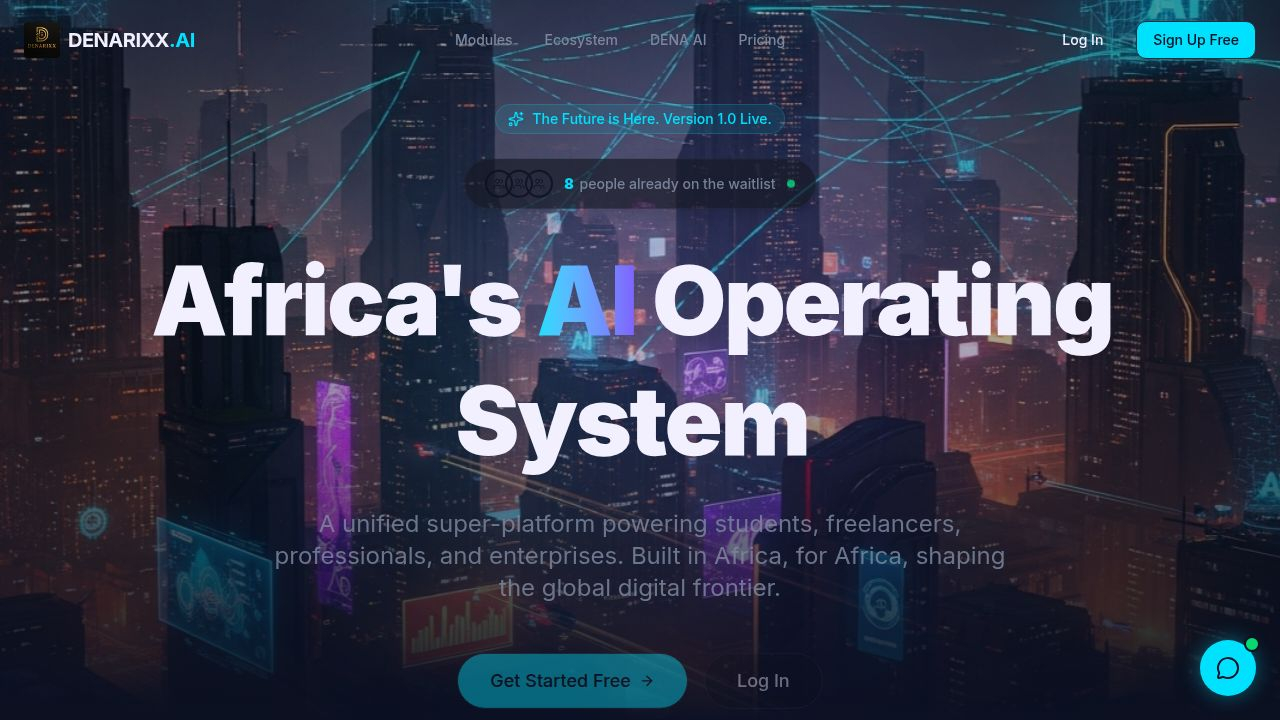
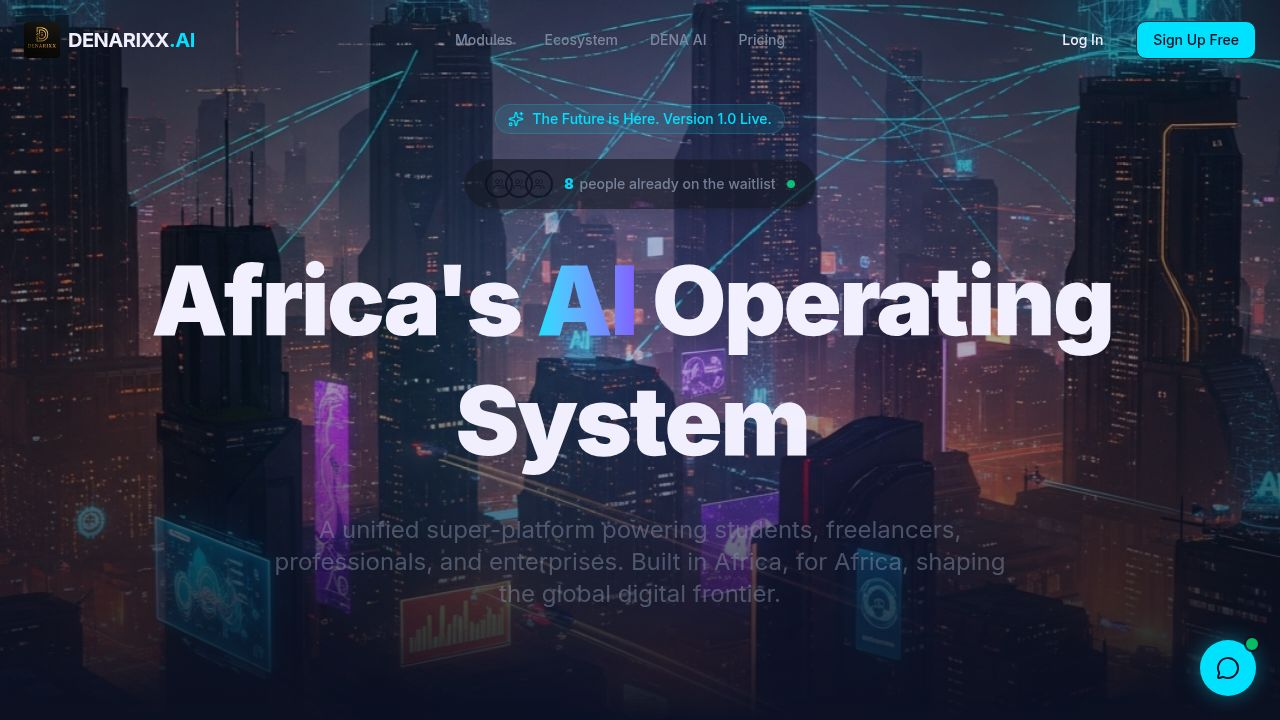
feat: let candidates opt out of application status emails
## Task
Add an email notifications preference so candidates can opt out of
application status change emails, giving users control and keeping
the app compliant with email best practices.

## Changes

### DB schema (lib/db/src/schema/users.ts)
- Added `emailNotifications boolean NOT NULL DEFAULT true` column to
  the users table
- Ran `pnpm --filter @user/db run push` to apply the migration

### API — users route (artifacts/api-server/src/routes/users.ts)
- PATCH /api/users/me now accepts and persists `emailNotifications`
  (boolean) alongside all other profile fields

### API — jobs route (artifacts/api-server/src/routes/jobs.ts)
- PATCH /api/jobs/applications/:appId/status now fetches
  `emailNotifications` from the user row
- Wraps the `sendApplicationStatusEmail` call in an
  `if (user.emailNotifications !== false)` guard; opted-out users
  skip the email entirely

### Profile UI (artifacts/denarixx/src/pages/Profile.tsx)
- Added `emailNotifications` state (default true), loaded from
  GET /api/users/me on mount
- Added a "Notifications" card section with a native toggle switch
  ("Notify me about application updates") above the Save button
- Preference is included in the PATCH /api/users/me body on save

## No deviations from spec
All three done-looks-like criteria are met:
1. Toggle in profile UI ✓
2. Preference stored in users table ✓
3. Email skipped when opted out ✓

## Pre-existing typecheck errors
[…]

diff --git a/artifacts/denarixx/src/pages/Profile.tsx b/artifacts/denarixx/src/pages/Profile.tsx
@@ -4,7 +4,7 @@ import { Redirect, Link } from "wouter";
 import { motion } from "framer-motion";
 import {
   User, MapPin, Globe, Twitter, Linkedin, Github,
-  Plus, X, ArrowLeft, Save, Loader2, Check, Camera
+  Plus, X, ArrowLeft, Save, Loader2, Check, Camera, Bell
 } from "lucide-react";
 import { Button } from "@/components/ui/button";
 import { Input } from "@/components/ui/input";
@@ -36,6 +36,8 @@ function ProfileContent() {
   const [uploadingAvatar, setUploadingAvatar] = useState(false);
   const fileInputRef = useRef<HTMLInputElement>(null);
 
+  const [emailNotifications, setEmailNotifications] = useState(true);
+
   const [form, setForm] = useState({
     bio: "",
     location: "",
@@ -63,6 +65,7 @@ function ProfileContent() {
           role: data.role ?? "",
         });
         if (data.avatarUrl) setDbAvatarUrl(data.avatarUrl);
+        if (typeof data.emailNotifications === "boolean") setEmailNotifications(data.emailNotifications);
         if (Array.isArray(data.skills) && data.skills.length > 0) {
           setSkills(data.skills.map((s: any) => ({ skill: s.skill, level: s.level })));
         }
@@ -146,7 +149,7 @@ function ProfileContent() {
         method: "PATCH",
         headers: { "Content-Type": "application/json" },
         credentials: "include",
-        body: JSON.stringify(form),
+        body: JSON.stringify({ ...form, emailNotifications }),
       });
       await fetch(`${base}/api/users/me/skills`, {
         method: "PUT",
@@ -382,6 +385,32 @@ function ProfileContent() {
                     ))}
                   </div>
                 </div>
+              </section>
+
+              {/* Notifications */}
+              <section className="rounded-xl border border-border bg-card p-6">
+                <h3 className="font-semibold text-primary mb-4 flex items-center gap-2">
+                  <Bell className="w-4 h-4" />Notifications
+                </h3>
+                <label className="flex items-center justify-between gap-4 cursor-pointer select-none">
+                  <div>
+                    <p className="text-sm font-medium">Notify me about application updates</p>
+                    <p className="text-xs text-muted-foreground mt-0.5">
+                      Receive an email when an employer updates the status of your application
+                    </p>
+                  </div>
+                  <button
+                    type="button"
+                    role="switch"
+                    aria-checked={emailNotifications}
+                    onClick={() => setEmailNotifications((v) => !v)}
+                    className={`relative inline-flex h-6 w-11 shrink-0 rounded-full border-2 border-transparent transition-colors focus:outline-none focus:ring-2 focus:ring-primary/50 ${emailNotifications ? "bg-primary" : "bg-muted"}`}
+                  >
+                    <span
+                      className={`pointer-events-none inline-block h-5 w-5 rounded-full bg-white shadow-sm transition-transform ${emailNotifications ? "translate-x-5" : "translate-x-0"}`}
+                    />
+                  </button>
+                </label>
               </section>
 
               {/* Save */}

diff --git a/artifacts/api-server/src/routes/jobs.ts b/artifacts/api-server/src/routes/jobs.ts
@@ -629,7 +629,7 @@ router.patch("/applications/:appId/status", requireAuth, async (req, res) => {
 
   try {
     const [user] = await db
-      .select({ id: usersTable.id, email: usersTable.email, name: usersTable.name })
+      .select({ id: usersTable.id, email: usersTable.email, name: usersTable.name, emailNotifications: usersTable.emailNotifications })
       .from(usersTable).where(eq(usersTable.clerkUserId, clerkUserId)).limit(1);
     if (!user) { res.status(404).json({ error: "User not found" }); return; }
 
@@ -641,13 +641,15 @@ router.patch("/applications/:appId/status", requireAuth, async (req, res) => {
     const [updated] = await db.update(jobApplications).set({ status }).where(eq(jobApplications.id, appId)).returning();
     res.json({ application: updated });
 
-    db.select({ title: jobs.title, company: jobs.company })
-      .from(jobs).where(eq(jobs.id, app.jobId)).limit(1)
-      .then(([job]) => {
-        if (!job) return;
-        return sendApplicationStatusEmail({ name: user.name, email: user.email, jobTitle: job.title, company: job.company, status });
-      })
-      .catch((emailErr) => { req.log.error({ err: emailErr }, "Failed to send application status email"); });
+    if (user.emailNotifications !== false) {
+      db.select({ title: jobs.title, company: jobs.company })
+        .from(jobs).where(eq(jobs.id, app.jobId)).limit(1)
+        .then(([job]) => {
+          if (!job) return;
+          return sendApplicationStatusEmail({ name: user.name, email: user.email, jobTitle: job.title, company: job.company, status });
+        })
+        .catch((emailErr) => { req.log.error({ err: emailErr }, "Failed to send application status email"); });
+    }
   } catch (err) {
     req.log.error({ err }, "Failed to update application status");
     res.status(500).json({ error: "Failed to update status" });

diff --git a/artifacts/api-server/src/routes/users.ts b/artifacts/api-server/src/routes/users.ts
@@ -49,7 +49,7 @@ router.get("/me", requireAuth, async (req, res) => {
 // PATCH /api/users/me — update current user profile
 router.patch("/me", requireAuth, async (req, res) => {
   const clerkUserId = (req as any).clerkUserId as string;
-  const { name, bio, location, website, twitterHandle, linkedinUrl, githubHandle, role, country, avatarUrl, userType } = req.body;
+  const { name, bio, location, website, twitterHandle, linkedinUrl, githubHandle, role, country, avatarUrl, userType, emailNotifications } = req.body;
 
   // userType can be set to "employer" by the user themselves;
   // "admin" can only be set by someone already with userType="admin"
@@ -83,6 +83,7 @@ router.patch("/me", requireAuth, async (req, res) => {
         ...(country !== undefined && { country }),
         ...(avatarUrl !== undefined && { avatarUrl }),
         ...(resolvedUserType !== undefined && { userType: resolvedUserType }),
+        ...(emailNotifications !== undefined && { emailNotifications: Boolean(emailNotifications) }),
         updatedAt: new Date(),
       })
       .where(eq(usersTable.clerkUserId, clerkUserId))

diff --git a/lib/db/src/schema/users.ts b/lib/db/src/schema/users.ts
@@ -1,4 +1,4 @@
-import { pgTable, serial, text, timestamp, integer } from "drizzle-orm/pg-core";
+import { pgTable, serial, text, timestamp, integer, boolean } from "drizzle-orm/pg-core";
 import { createInsertSchema } from "drizzle-zod";
 import { z } from "zod/v4";
 
@@ -18,6 +18,7 @@ export const usersTable = pgTable("users", {
   country: text("country"),
   reputationScore: integer("reputation_score").default(0).notNull(),
   userType: text("user_type").notNull().default("candidate"),
+  emailNotifications: boolean("email_notifications").notNull().default(true),
   createdAt: timestamp("created_at", { withTimezone: true }).defaultNow().notNull(),
   updatedAt: timestamp("updated_at", { withTimezone: true }).defaultNow().notNull(),
 });